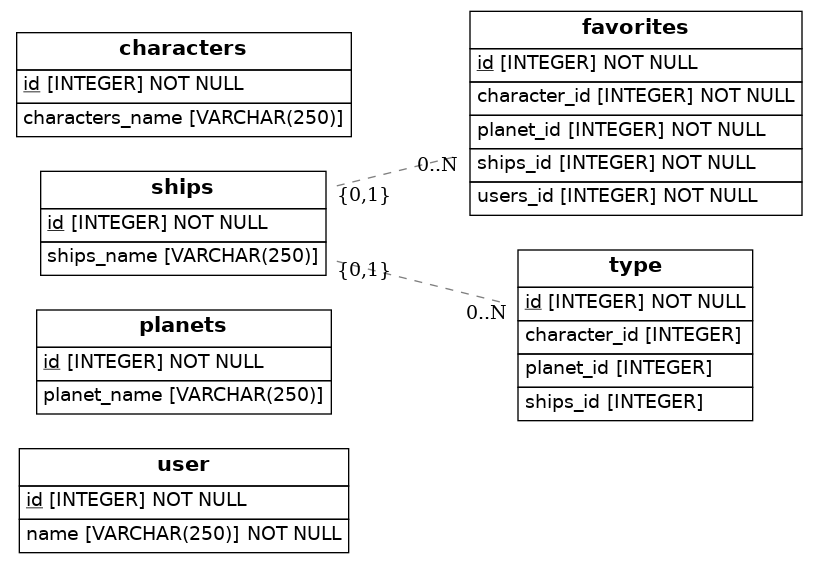
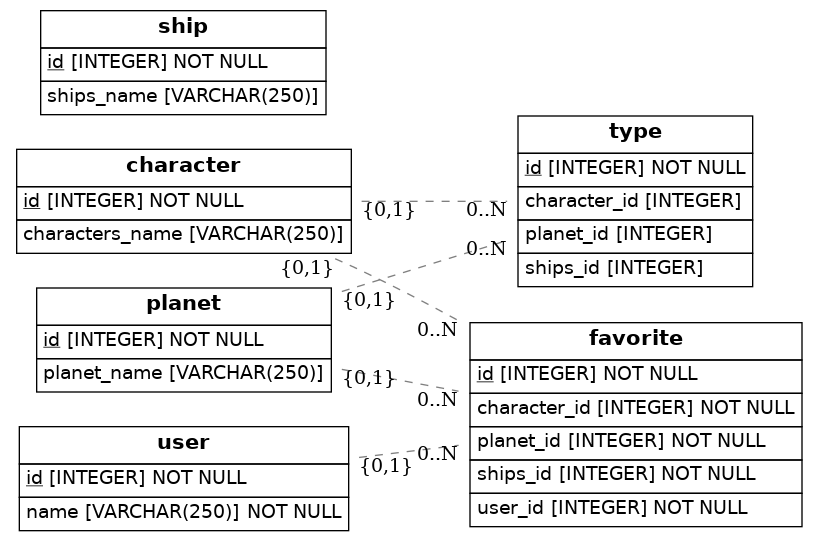
segundo

Changed region(s): [[0.0306, 0.0, 1.0, 1.0], [0.0, 0.0, 0.5202, 0.7394]]

diff --git a/src/models.py b/src/models.py
@@ -8,43 +8,44 @@ from eralchemy2 import render_er
 
 Base = declarative_base()
 
-class Users(Base):
+class User(Base):
     __tablename__ = 'user'
     # Here we define columns for the table person
     # Notice that each column is also a normal Python instance attribute.
     id = Column(Integer, primary_key=True)
     name = Column(String(250), nullable=False)
 
-class Planets(Base):
-    __tablename__ = 'planets'
+class Planet(Base):
+    __tablename__ = 'planet'
     # Here we define columns for the table address.
     # Notice that each column is also a normal Python instance attribute.
     id = Column(Integer, primary_key=True)
     planet_name = Column(String(250))
    
 
-class Ships(Base):
-    __tablename__ = 'ships'
+class Ship(Base):
+    __tablename__ = 'ship'
     # Here we define columns for the table address.
     # Notice that each column is also a normal Python instance attribute.
     id = Column(Integer, primary_key=True)
     ships_name = Column(String(250))
    
 
-class Characters(Base):
-    __tablename__ = 'characters'
+class Character(Base):
+    __tablename__ = 'character'
     # Here we define columns for the table address.
     # Notice that each column is also a normal Python instance attribute.
     id = Column(Integer, primary_key=True)
     characters_name = Column(String(250))
   
 
-class Favorites(Base):
-    __tablename__ = 'favorites'
+class Favorite(Base):
+    __tablename__ = 'favorite'
     # Here we define columns for the table address.
     # Notice that each column is also a normal Python instance attribute.
     id = Column(Integer, primary_key=True)
-    users_id = Column(Integer, ForeignKey('users.id'), nullable=False)
+    user_id = Column(Integer, ForeignKey('user.id'), nullable=False)
+    user = relationship(User)
     character_id = Column(Integer, ForeignKey('character.id'), nullable=False)
     planet_id = Column(Integer, ForeignKey('planet.id'), nullable=False)
     ships_id = Column(Integer, ForeignKey('ships.id'), nullable=False)
